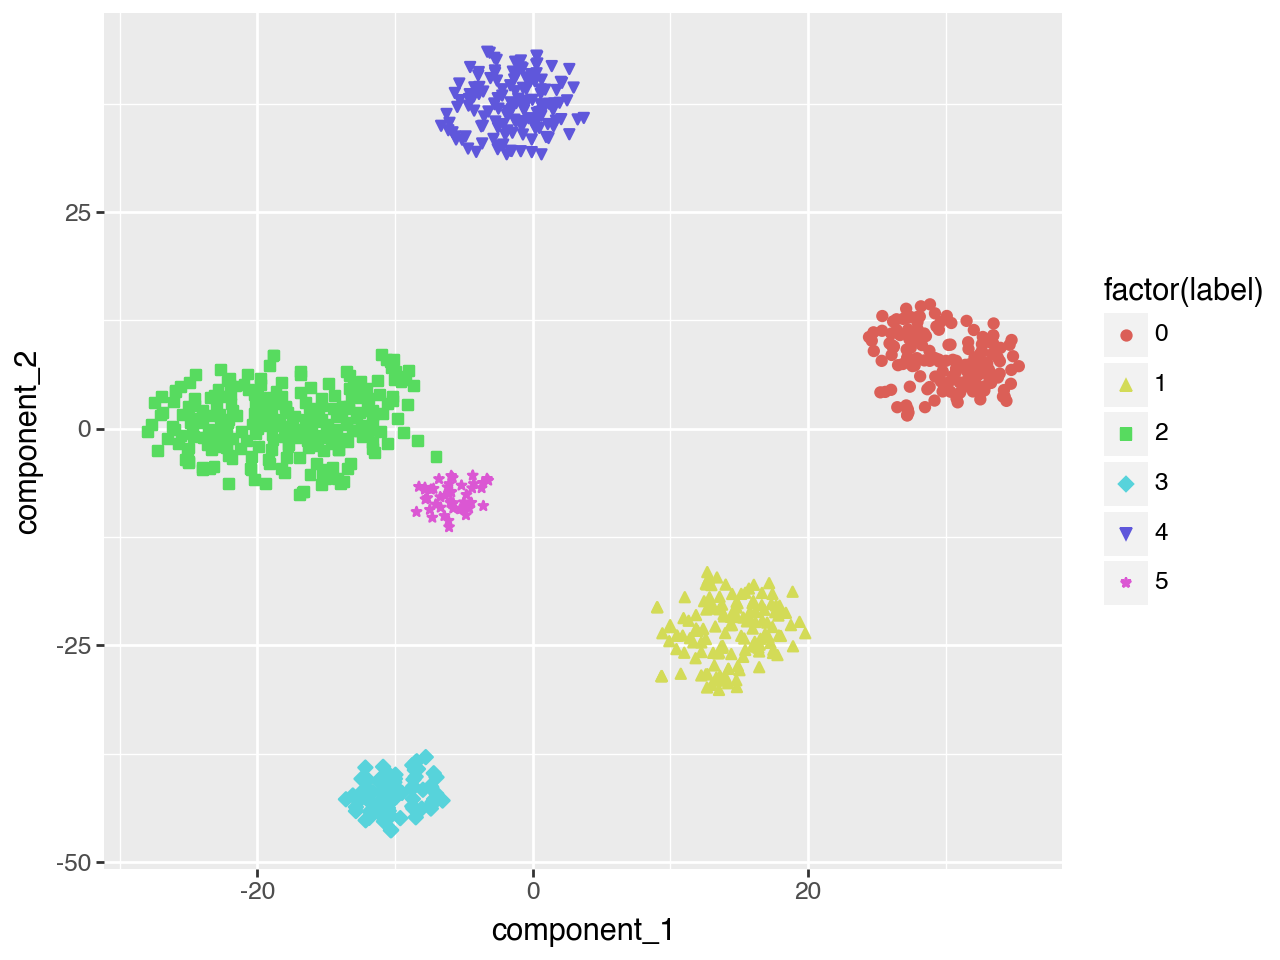
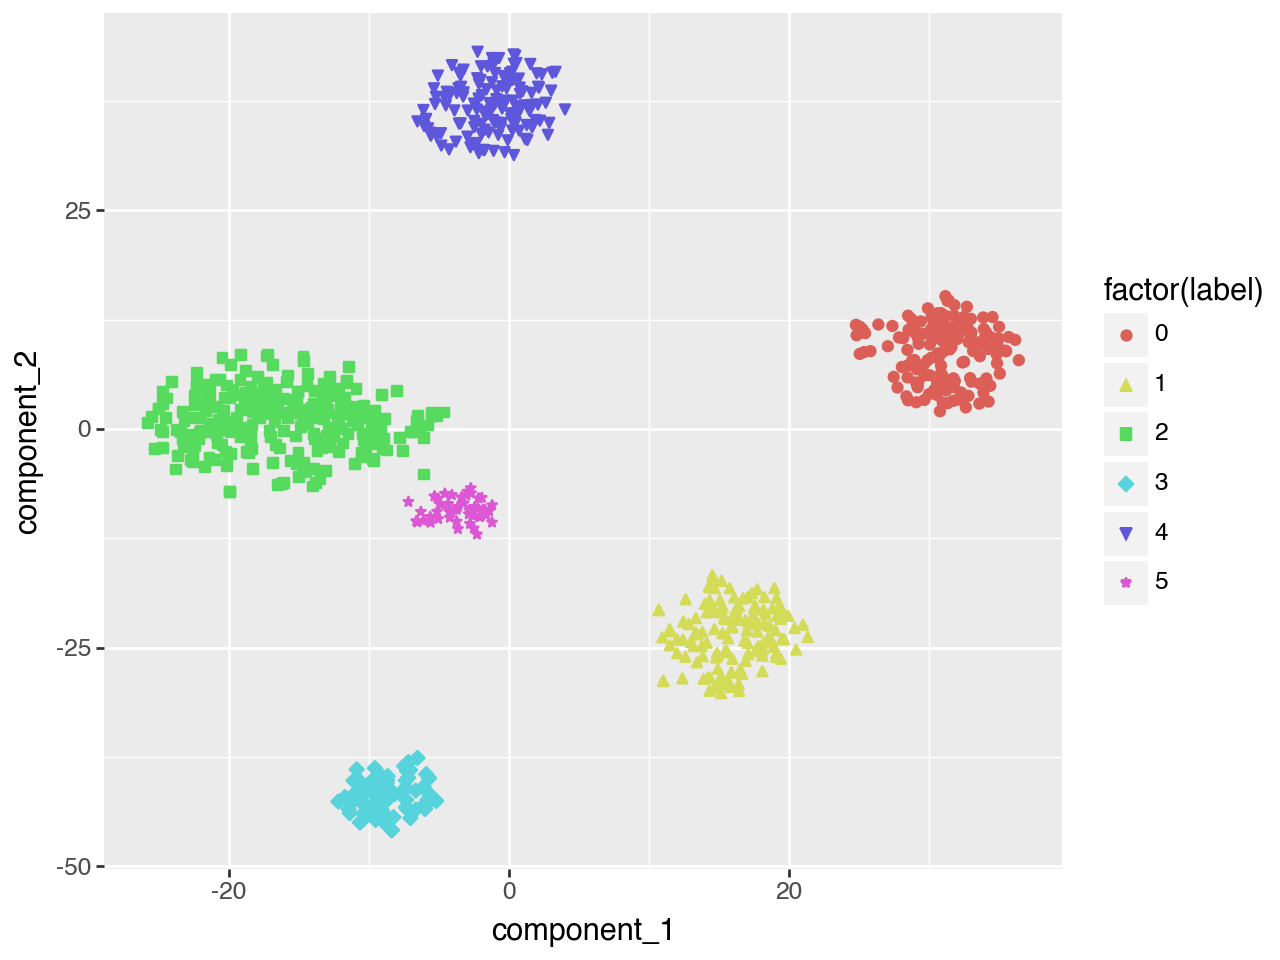
Performs Gaussian Mixture clustering

diff --git a/clustering.py b/clustering.py
@@ -4,6 +4,7 @@
 
 import pandas
 import sklearn.cluster
+import sklearn.mixture
 from plotnine import *
 from sklearn.manifold import TSNE
 from sklearn.metrics import silhouette_score
@@ -25,6 +26,13 @@ def perform_spectral(data):
     best_cluster_num = findBestClusterValue(silhouettes)
     spectral_clusters = spectral_clustering(data, best_cluster_num)
     graph_2d(data, spectral_clusters, "Spectral Clusters")
+
+# Gaussain mixture labelling
+def perform_gaussian(data):
+    silhouettes = gaussian_silhouettes(20, data)
+    best_cluster_num = findBestClusterValue(silhouettes)
+    gaussian_clusters = gaussian_mixture(data, best_cluster_num)
+    graph_2d(data, gaussian_clusters, "Gaussian Mixture Clusters")
 
 # reads in data and labels and shuffles
 def read_data(seed=SEED):
@@ -128,6 +136,30 @@ def spectral_silhouettes (maxClusterValue, X, seed=SEED):
     
     return silhouettes
 
+# runs a gaussian mixture estimation for a given number of clusters, returns Series of cluster indices
+def gaussian_mixture(data, num_clusters):
+    # diagonal covariance used for speed (compared to full)
+    gaussian = sklearn.mixture.GaussianMixture(n_components=num_clusters, covariance_type='diag', random_state=SEED)
+    labels = gaussian.fit_predict(data)
+
+    # converts labels to Series named "labels" to make display easier
+    labels = pandas.Series(labels).rename("label")
+    return labels
+
+# runs gaussian mixture clustering with a range of values for num_clusters and prints and returns silhouette scores
+def gaussian_silhouettes (maxClusterValue, X, seed=SEED):
+    range_n_clusters = list(range(2, maxClusterValue+1))
+
+    silhouettes = {}
+    for n_clusters in range_n_clusters:
+        cluster_labels = gaussian_mixture(X, n_clusters)
+
+        silhouette_avg = silhouette_score(X, cluster_labels)
+        print(f"n_clusters: {n_clusters}, Average silhouette_score: {silhouette_avg}")
+        silhouettes[n_clusters] = silhouette_avg
+    
+    return silhouettes
+
 def findBestClusterValue (silhouettes):
     max_cluster = 2
     for cluster in silhouettes:
@@ -136,4 +168,3 @@ def findBestClusterValue (silhouettes):
     return max_cluster
 
 data, labels = read_data()
-perform_spectral(data)

diff --git a/README.md b/README.md
@@ -2,5 +2,6 @@
 
 Uses data downloaded from https://archive.ics.uci.edu/dataset/401/gene+expression+cancer+rna+seq
 
-K-means:
-6 clusters has maximum silhouette score (0.22890954496507346)
+K-means: 6 clusters, silhouette score 0.22890954496507346
+Spectral: 6 clusters, silhouette score 0.22768382462981648
+Gaussian: 6 clusters, silhouette score 0.22890954496507346
